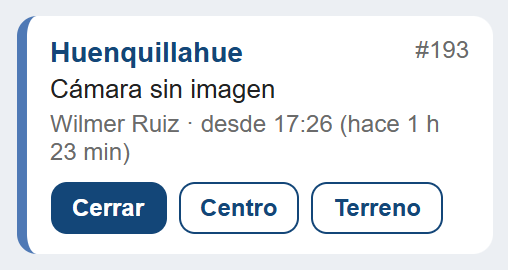
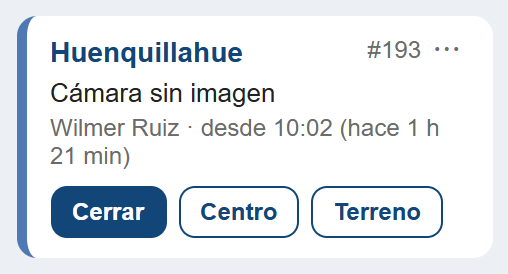
Solicitudes: abrir primero, cambiar centro y eliminar con respaldo; guía actualizada
- Al entrar o recargar la página se abre Solicitudes; las planillas se leen en segundo plano
- Botón ⋯ en cada ticket abierto: corregir el centro o eliminar la solicitud
- Eliminar pide motivo y escribir el número del ticket, y copia la fila a "Solicitudes eliminadas" en el log antes de borrarla; si no se puede respaldar, no borra
- Guía: sección nueva y capturas sin Angelo

diff --git a/public/index.html b/public/index.html
@@ -647,6 +647,22 @@
   .ticket .cabeceraTicket { display: flex; justify-content: space-between; gap: 8px; }
   .ticket strong { color: var(--azul); font-size: 14px; }
   .ticket .numero { color: var(--suave); font-size: 12px; }
+  .ticket .ladoTicket { display: flex; align-items: start; gap: 2px; }
+  .ticket .botonMas {
+    background: none; border: none; color: var(--suave); cursor: pointer;
+    font-size: 16px; line-height: 1; padding: 0 4px 4px; margin-top: -2px; border-radius: 6px;
+  }
+  .ticket .botonMas:hover, .ticket .botonMas:focus-visible { background: var(--azul-claro); color: var(--azul); }
+  .dialogoTicket .seccionOpcion { display: grid; gap: 10px; padding-top: 12px; border-top: 1px solid #e2e6ec; }
+  .dialogoTicket .seccionOpcion h3 { margin: 0; font-size: 14px; color: var(--azul); }
+  .dialogoTicket .seccionOpcion.peligro h3 { color: var(--error); }
+  .dialogoTicket .seccionOpcion .fila { display: flex; gap: 8px; align-items: end; }
+  .dialogoTicket .seccionOpcion .fila label { flex: 1; min-width: 0; }
+  .dialogoTicket .paso2 { display: grid; gap: 10px; }
+  .dialogoTicket .paso2[hidden] { display: none; }
+  .dialogoTicket .avisoPeligro { padding: 8px 10px; border-radius: 8px; background: var(--error-fondo); color: var(--error); font-size: 13px; }
+  .botonPeligroLleno { background: var(--error); color: white; border: 1px solid var(--error); border-radius: 8px; padding: 7px 12px; cursor: pointer; font-weight: 600; }
+  .botonPeligroLleno:disabled { opacity: 0.45; cursor: not-allowed; }
   .ticket .problema { margin: 3px 0; }
   .ticket .meta { color: var(--suave); font-size: 12px; }
   .ticket .nota { margin-top: 6px; padding: 6px 8px; background: #f5f7fa; border-radius: 6px; color: var(--texto); font-size: 12px; }
@@ -1207,9 +1223,10 @@ async function iniciar() {
   estado.hojas = r.hojas;
   mostrarApp();
   dibujarPestanas();
-  await cambiarHoja(estado.hojaActual || r.hojas[0].id);
+  // Lo primero que se ve es Solicitudes; las planillas se leen en segundo plano
+  estado.hojaActual = estado.hojaActual || r.hojas[0].id;
+  abrirSolicitudes();
   precargarHojas();
-  cargarSolicitudes({ silencioso: true });  // para la cantidad por aceptar en el menú
 }
 
 // Lee en segundo plano las otras planillas: así cambiar entre ellas es inmediato
@@ -2810,12 +2827,23 @@ function tarjetaTicket(t) {
     meta = (t.tecnico || '') + ' · ' + horaDe(fechaTicket(t.fechaTecnico)) + (t.tipo ? ' · ' + t.tipo : '');
   }
   div.className = 'ticket ' + clase;
-  div.innerHTML = '<div class="cabeceraTicket"><strong></strong><span class="numero"></span></div>' +
+  div.innerHTML = '<div class="cabeceraTicket"><strong></strong><span class="ladoTicket"><span class="numero"></span></span></div>' +
     '<div class="problema"></div><div class="meta"></div>';
   div.querySelector('strong').textContent = t.centro || 'Sin centro';
   div.querySelector('.numero').textContent = '#' + t.id;
   div.querySelector('.problema').textContent = t.problema;
   div.querySelector('.meta').textContent = meta;
+  // Corregir el centro o eliminar: solo tickets que no están finalizados
+  if (t.columna !== 'finalizado') {
+    const mas = document.createElement('button');
+    mas.type = 'button';
+    mas.className = 'botonMas';
+    mas.textContent = '⋯';
+    mas.title = 'Más opciones del ticket';
+    mas.setAttribute('aria-label', 'Más opciones del ticket #' + t.id);
+    mas.addEventListener('click', () => abrirOpcionesTicket(t));
+    div.querySelector('.ladoTicket').appendChild(mas);
+  }
   if (t.observaciones && t.columna !== 'aceptar') {
     const nota = document.createElement('div');
     nota.className = 'nota';
@@ -2964,6 +2992,104 @@ function abrirDialogoTicket(modo, t) {
   });
   dialogo.showModal();
   (centro || tecnico).select.focus();
+}
+
+// Cambiar el centro y eliminar la solicitud (cualquier técnico; el servidor exige un técnico asignado)
+function abrirOpcionesTicket(t) {
+  if (!solicitudes) return;
+  const dialogo = document.getElementById('dialogoTicket');
+  dialogo.innerHTML = '<form method="dialog" novalidate>' +
+    '<div class="cabeceraDialogo"><div><h2 id="dialogoTitulo"></h2><div class="sub"></div></div>' +
+    '<button type="button" class="cerrarDialogo" aria-label="Cerrar">&times;</button></div>' +
+    '<div class="seccionOpcion" id="opcionCentro"><h3>Cambiar el centro</h3></div>' +
+    '<div class="error" role="alert"></div>' +
+    '<div class="botones"><button type="button" class="botonSecundario cancelar">Cerrar</button></div></form>';
+  const form = dialogo.querySelector('form');
+  const error = form.querySelector('.error');
+  dialogo.querySelector('h2').textContent = 'Ticket #' + t.id + ' · ' + t.centro;
+  dialogo.querySelector('.sub').textContent = [t.problema, t.nombre, t.estado].filter(Boolean).join(' · ');
+  const cerrar = () => dialogo.close();
+  dialogo.querySelector('.cerrarDialogo').addEventListener('click', cerrar);
+  form.querySelector('.cancelar').addEventListener('click', cerrar);
+  form.addEventListener('submit', e => e.preventDefault());
+  form.addEventListener('input', () => { error.textContent = ''; });
+
+  const guardar = async (ruta, datos, boton, listo) => {
+    const texto = boton.textContent;
+    boton.disabled = true;
+    boton.textContent = 'Guardando…';
+    const r = await api('/api/solicitudes/' + ruta, { method: 'POST', body: JSON.stringify({ fila: t.fila, id: t.id, ...datos }) });
+    boton.disabled = false;
+    boton.textContent = texto;
+    if (!r.ok) {
+      error.textContent = r.error || 'No se pudo guardar.';
+      if (r.conflicto) cargarSolicitudes({ silencioso: true });
+      return;
+    }
+    dialogo.close();
+    avisar(listo);
+    cargarSolicitudes({ silencioso: true });
+  };
+
+  // Cambiar centro
+  const centros = solicitudes.centros.slice().sort((a, b) => a.localeCompare(b, 'es', { numeric: true }));
+  if (t.centro && !centros.includes(t.centro)) centros.unshift(t.centro);
+  const centro = campoSelect('Centro correcto', centros, t.centro);
+  const filaCentro = document.createElement('div');
+  filaCentro.className = 'fila';
+  const botonCentro = document.createElement('button');
+  botonCentro.type = 'button';
+  botonCentro.className = 'botonPrimario';
+  botonCentro.textContent = 'Guardar centro';
+  botonCentro.disabled = true;
+  filaCentro.append(centro.label, botonCentro);
+  const avisoCentro = document.createElement('div');
+  avisoCentro.className = 'aviso';
+  avisoCentro.textContent = 'Solo corrige el centro en la planilla. No se avisa a nadie.';
+  form.querySelector('#opcionCentro').append(filaCentro, avisoCentro);
+  centro.select.addEventListener('change', () => {
+    botonCentro.disabled = !centro.select.value || centro.select.value === t.centro;
+  });
+  botonCentro.addEventListener('click', () => {
+    if (!centro.select.value || centro.select.value === t.centro) return;
+    guardar('centro', { centro: centro.select.value }, botonCentro, 'Centro del ticket #' + t.id + ' cambiado a ' + centro.select.value);
+  });
+
+  // Eliminar: en dos pasos, con motivo y escribiendo el número del ticket
+  const seccion = document.createElement('div');
+  seccion.className = 'seccionOpcion peligro';
+  seccion.innerHTML = '<h3>Eliminar solicitud</h3>' +
+    '<div class="sub">Para solicitudes que no corresponden: duplicadas, de prueba o enviadas por error.</div>' +
+    '<div class="paso1"><button type="button" class="botonPeligro">Eliminar esta solicitud…</button></div>' +
+    '<div class="paso2" hidden>' +
+    '<div class="avisoPeligro"></div>' +
+    '<label><span>Motivo (obligatorio)</span><textarea id="motivoEliminar" placeholder="Ej.: duplicada con el ticket 185"></textarea></label>' +
+    '<label><span class="textoConfirmar"></span><input id="confirmarEliminar" inputmode="numeric" autocomplete="off"></label>' +
+    '<div class="botones"><button type="button" class="botonPeligroLleno" disabled>Eliminar definitivamente</button></div>' +
+    '</div>';
+  error.before(seccion);
+  const paso1 = seccion.querySelector('.paso1');
+  const paso2 = seccion.querySelector('.paso2');
+  seccion.querySelector('.avisoPeligro').textContent = 'Se borra la fila del ticket #' + t.id + ' (' + t.centro + ' · ' + t.problema +
+    ') de la planilla Mantenciones. Queda una copia en el log, pero el ticket desaparece del tablero y de la planilla.';
+  seccion.querySelector('.textoConfirmar').textContent = 'Para confirmar, escribe el número del ticket: ' + t.id;
+  const motivo = seccion.querySelector('#motivoEliminar');
+  const confirmar = seccion.querySelector('#confirmarEliminar');
+  const botonEliminar = seccion.querySelector('.botonPeligroLleno');
+  const completo = () => motivo.value.trim().length >= 5 && confirmar.value.trim() === String(t.id);
+  paso1.querySelector('button').addEventListener('click', () => {
+    paso1.hidden = true;
+    paso2.hidden = false;
+    motivo.focus();
+  });
+  [motivo, confirmar].forEach(el => el.addEventListener('input', () => { botonEliminar.disabled = !completo(); }));
+  botonEliminar.addEventListener('click', () => {
+    if (!completo()) return;
+    guardar('eliminar', { motivo: motivo.value.trim(), confirmacion: confirmar.value.trim() }, botonEliminar, 'Ticket #' + t.id + ' eliminado');
+  });
+
+  dialogo.showModal();
+  centro.select.focus();
 }
 
 function campoSelect(titulo, valores, elegido) {

diff --git a/ayuda/solicitudes.html b/ayuda/solicitudes.html
@@ -117,7 +117,7 @@
 
   <section>
     <h2>Dónde está</h2>
-    <p>Entra a la página con tu usuario y toca <b>Solicitudes</b> en el menú, arriba de todo. El número rojo indica cuántos tickets esperan que alguien los acepte.</p>
+    <p>Al entrar a la página con tu usuario, lo primero que ves es <b>Solicitudes</b>. Si te cambiaste a otra pestaña, vuelve tocando <b>Solicitudes</b> en el menú, arriba de todo. El número rojo indica cuántos tickets esperan que alguien los acepte.</p>
     <figure class="angosta">
       <img src="img/02-menu.png" alt="Botón Solicitudes en el menú con un globo rojo que dice 2" width="482" height="128">
     </figure>
@@ -236,6 +236,22 @@
     </figure>
   </section>
 
+  <section id="corregir">
+    <h2>Corregir el centro o eliminar una solicitud</h2>
+    <p>Cada ticket abierto tiene un botón <b>⋯</b> al lado de su número. Ábrelo cuando una solicitud llegó con el centro equivocado o no corresponde.</p>
+    <figure class="media">
+      <img src="img/13-opciones.png" alt="Ventana del botón ⋯ con Cambiar el centro y Eliminar solicitud" width="708" height="605">
+    </figure>
+    <dl>
+      <div><dt>Cambiar el centro</dt><dd>Elige el centro correcto y toca <b>Guardar centro</b>. Solo se corrige en la planilla: no se avisa a la bióloga ni a Notion.</dd></div>
+      <div><dt>Eliminar solicitud</dt><dd>Solo para solicitudes duplicadas, de prueba o enviadas por error. Toca <b>Eliminar esta solicitud…</b>, escribe el motivo y el número del ticket. Recién ahí se activa el botón rojo.</dd></div>
+    </dl>
+    <figure class="media">
+      <img src="img/14-eliminar.png" alt="Paso para eliminar con el motivo y el número del ticket escritos" width="648" height="417">
+    </figure>
+    <div class="alerta"><b>Ojo:</b> eliminar borra la fila de la planilla y el ticket desaparece del tablero. Queda una copia con tu nombre y el motivo, pero revisa bien el número antes de confirmar. Los tickets finalizados no se pueden eliminar.</div>
+  </section>
+
   <section>
     <h2>Qué significan los colores</h2>
     <div class="colores">
@@ -252,7 +268,7 @@
     <h2>Ver solo tus tickets</h2>
     <p>Arriba del tablero hay un botón por cada técnico. Toca tu nombre para ver solo lo tuyo en En curso, En gestión y Finalizadas. <b>Por aceptar</b> siempre muestra todo, porque esos tickets todavía no son de nadie.</p>
     <figure>
-      <img src="img/03-filtro.png" alt="Botones Todos los técnicos, Angelo Guzmán, Claudia Yáñez, Sebastián Arzola y Wilmer Ruiz" width="1828" height="86">
+      <img src="img/03-filtro.png" alt="Botones Todos los técnicos, Claudia Yáñez, José Rozas, Sebastián Arzola y Wilmer Ruiz" width="1828" height="86">
     </figure>
   </section>
 

diff --git a/server.js b/server.js
@@ -342,7 +342,11 @@ const ACCIONES_SOLICITUD = {
   cerrar: b => texto(b.tecnico, 100) && listaTextos(b.tipos) && texto(b.observaciones ?? '') !== null &&
     { accion: 'solicitudesCerrar', tecnico: b.tecnico.trim(), tipos: listaTextos(b.tipos), observaciones: (b.observaciones || '').trim() },
   gestion: b => texto(b.tecnico, 100) && ['centro', 'terreno'].includes(b.gestion) && texto(b.observaciones ?? '') !== null &&
-    { accion: 'solicitudesGestion', tecnico: b.tecnico.trim(), gestion: b.gestion, observaciones: (b.observaciones || '').trim() }
+    { accion: 'solicitudesGestion', tecnico: b.tecnico.trim(), gestion: b.gestion, observaciones: (b.observaciones || '').trim() },
+  centro: b => texto(b.centro, 200) && { accion: 'solicitudesCentro', centro: b.centro.trim() },
+  // Hay que escribir el número del ticket y un motivo; el script lo vuelve a comprobar
+  eliminar: b => texto(b.motivo, 500) && b.motivo.trim().length >= 5 && String(b.confirmacion ?? '').trim() === String(b.id) &&
+    { accion: 'solicitudesEliminar', motivo: b.motivo.trim(), confirmacion: String(b.confirmacion).trim() }
 };
 
 app.post('/api/solicitudes/:accion', requiereSesion, async (req, res) => {
